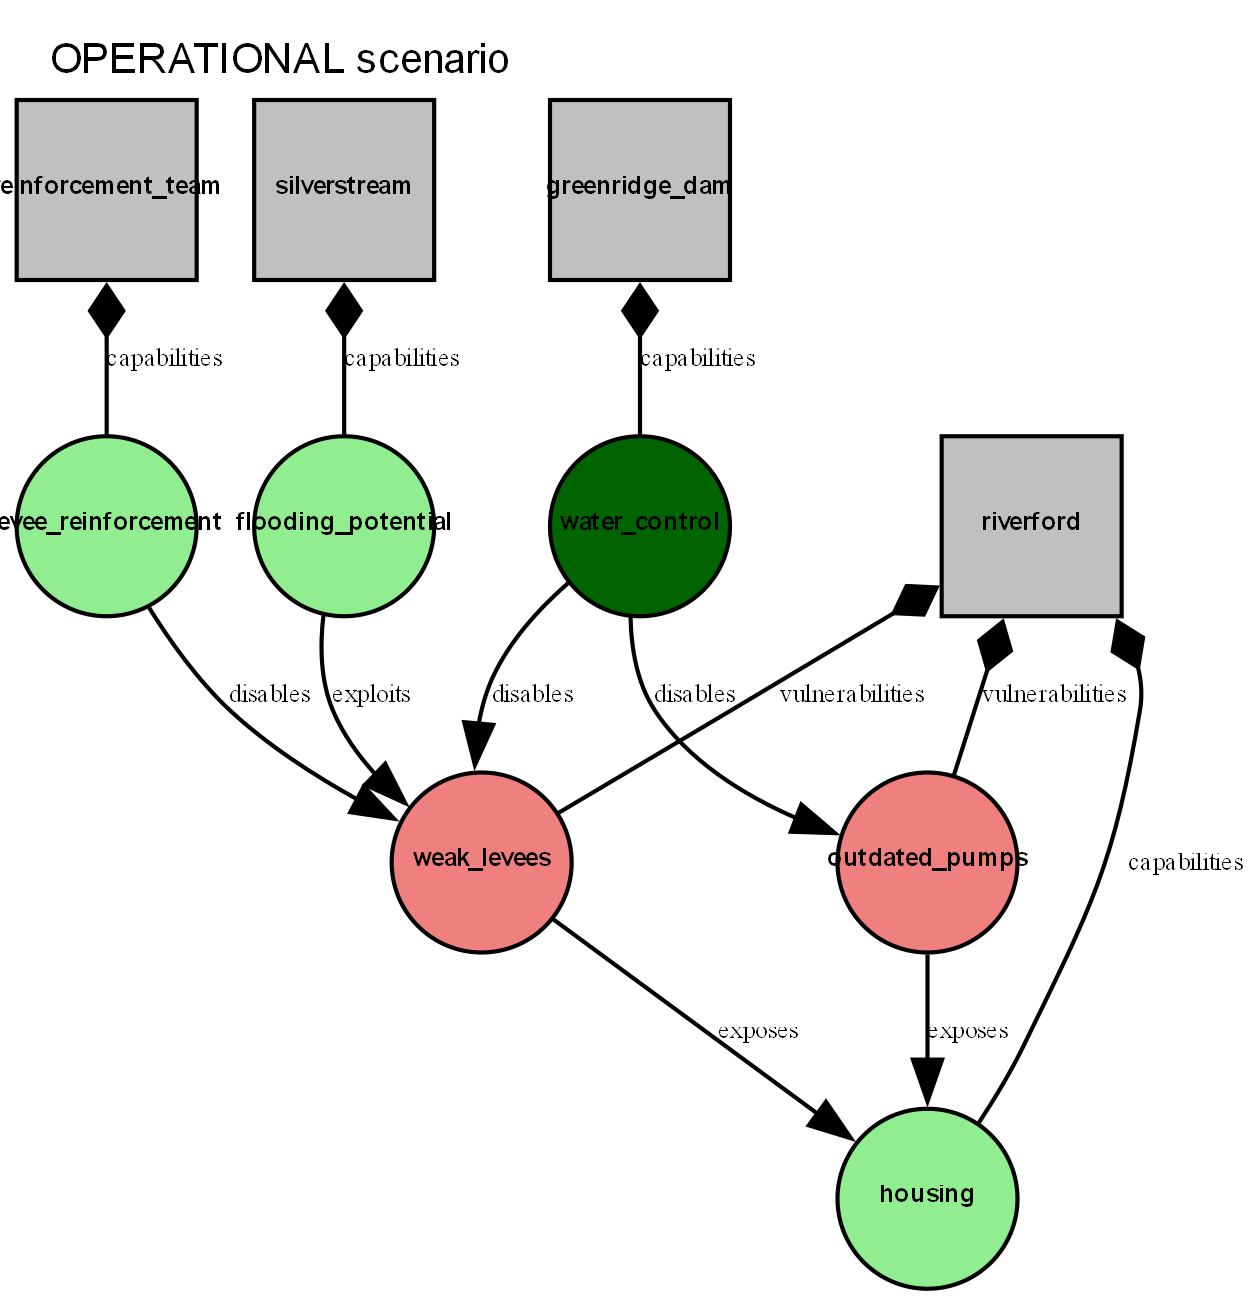
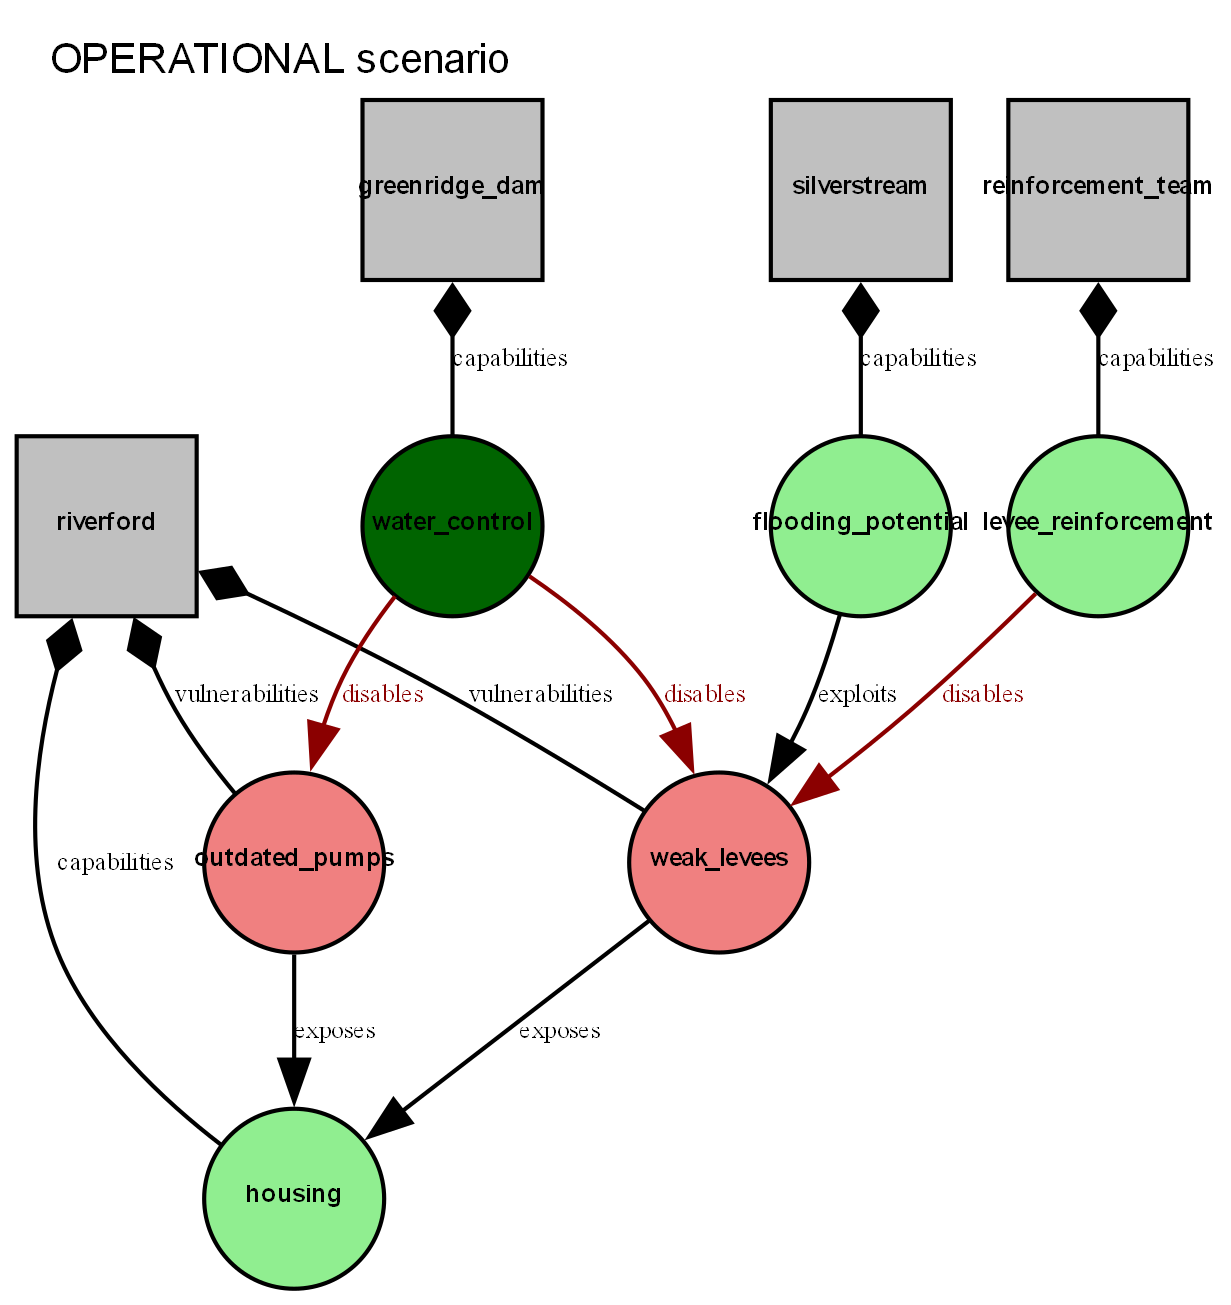
Minor improvement in visualization, adding id checking for empty cases.

diff --git a/laderr_engine/laderr_lib/services/visualization.py b/laderr_engine/laderr_lib/services/visualization.py
@@ -6,6 +6,7 @@ LaDeRR RDF models, extracts entities and relationships, applies predefined style
 """
 
 import graphviz
+from icecream import ic
 from loguru import logger
 from rdflib import Graph, RDF
 
@@ -147,6 +148,9 @@ class GraphCreator:
                 style = {"shape": "ellipse", "color": "black", "style": "filled"}
 
             if instance_id not in added_nodes:
+                if not instance_id:
+                    logger.warning("An unnamed instance was received for plotting.")
+                    instance_id = "UNNAMED"
                 dot.node(instance_id, shape=style["shape"], color=style["color"], style=style["style"],
                          penwidth=style.get("penwidth", "1"), fillcolor=style.get("fillcolor", "white"),
                          gradientangle=style.get("gradientangle", ""), fixedsize="true", width="0.6", height="0.6",
@@ -258,6 +262,9 @@ class GraphCreator:
             "preservesAgainst": "orange",
             "preservesDespite": "orange",
             "sustains": "orange",
+            "failToDamage": "green",
+            "succeededToDamage": "red",
+            "disables":"darkred",
         }
 
         diamond_source_edges = {"capabilities", "vulnerabilities", "resiliences"}

diff --git a/laderr_engine/tester.py b/laderr_engine/tester.py
@@ -32,8 +32,6 @@ if __name__ == "__main__":
 
     laderr_graph = Laderr.exec_inferences_ladder_graph(laderr_graph)
 
-    replace_scenario(laderr_graph, 'incident')  # replace with 'operational', 'resilient', etc. as needed
-
     Laderr.save_laderr_graph(laderr_graph,
                              "C:\\Users\\FavatoBarcelosPP\\Dev\\laderr_engine\\manual_test_resources\\output_graph2.ttl")
     Laderr.save_laderr_spec_from_graph(laderr_graph,
